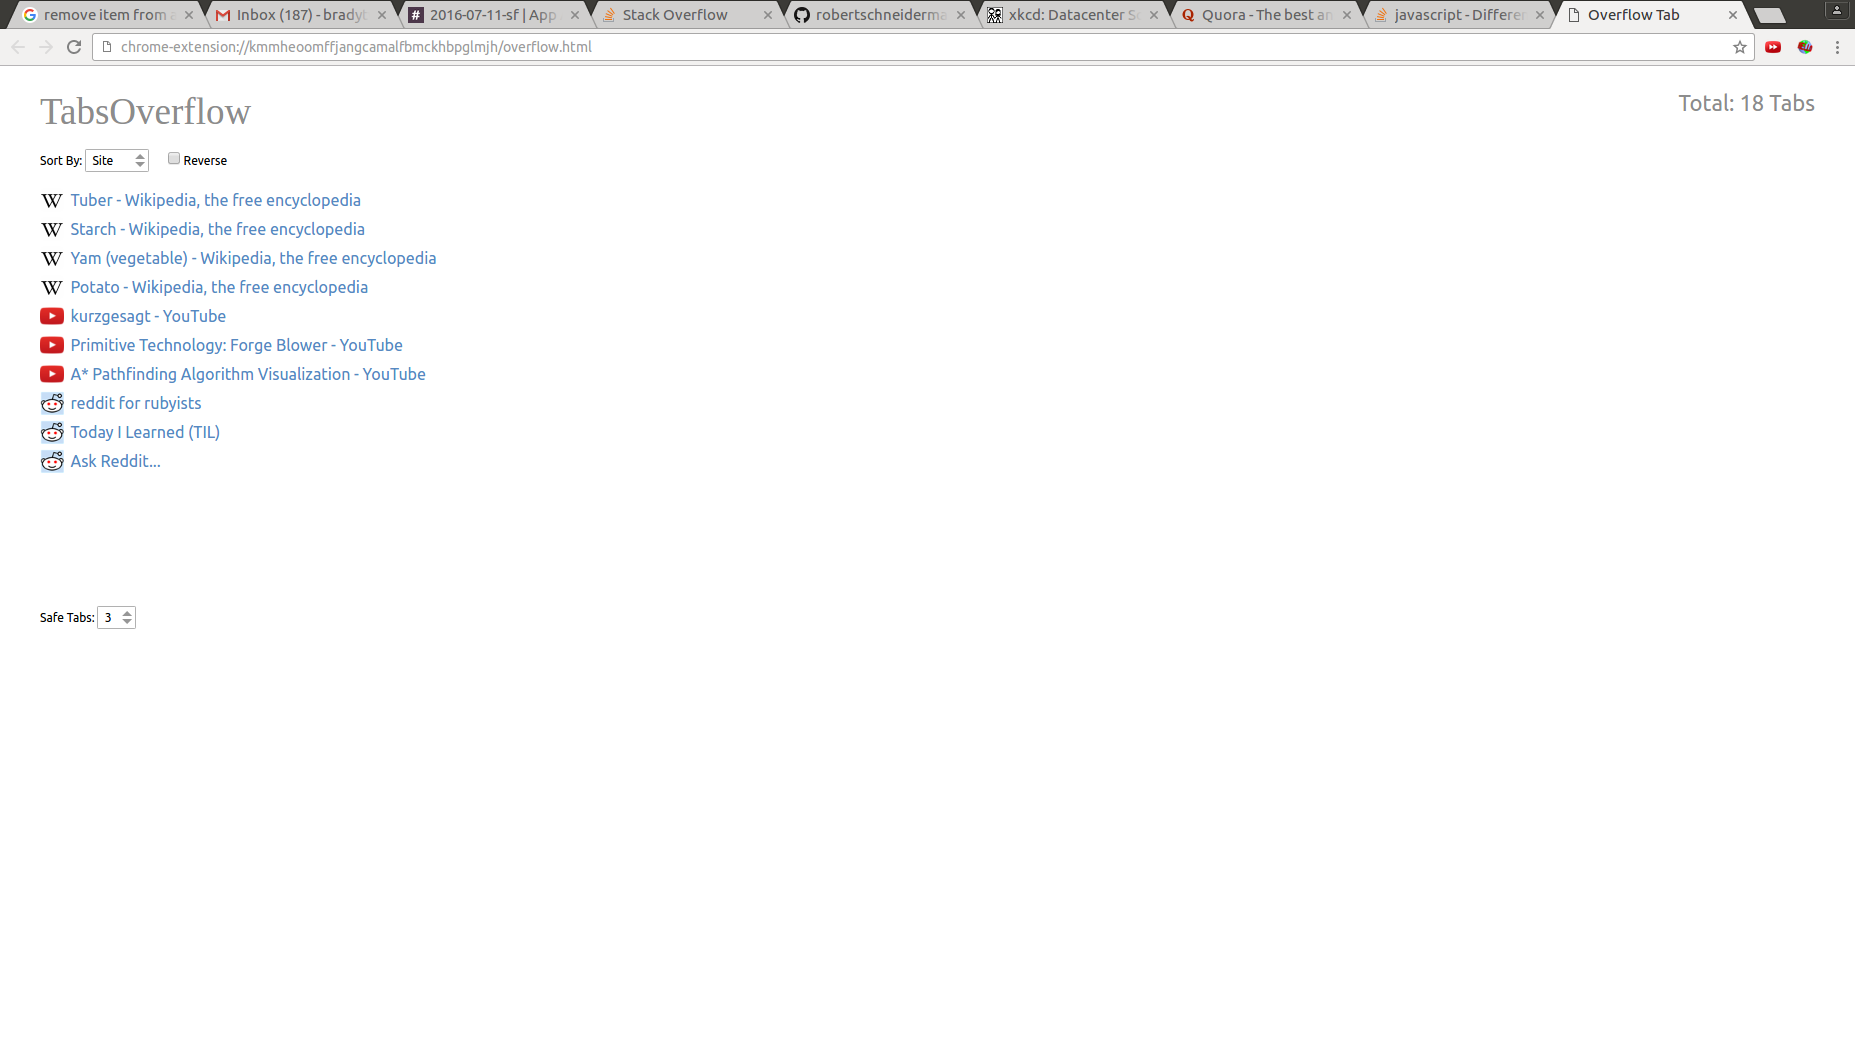
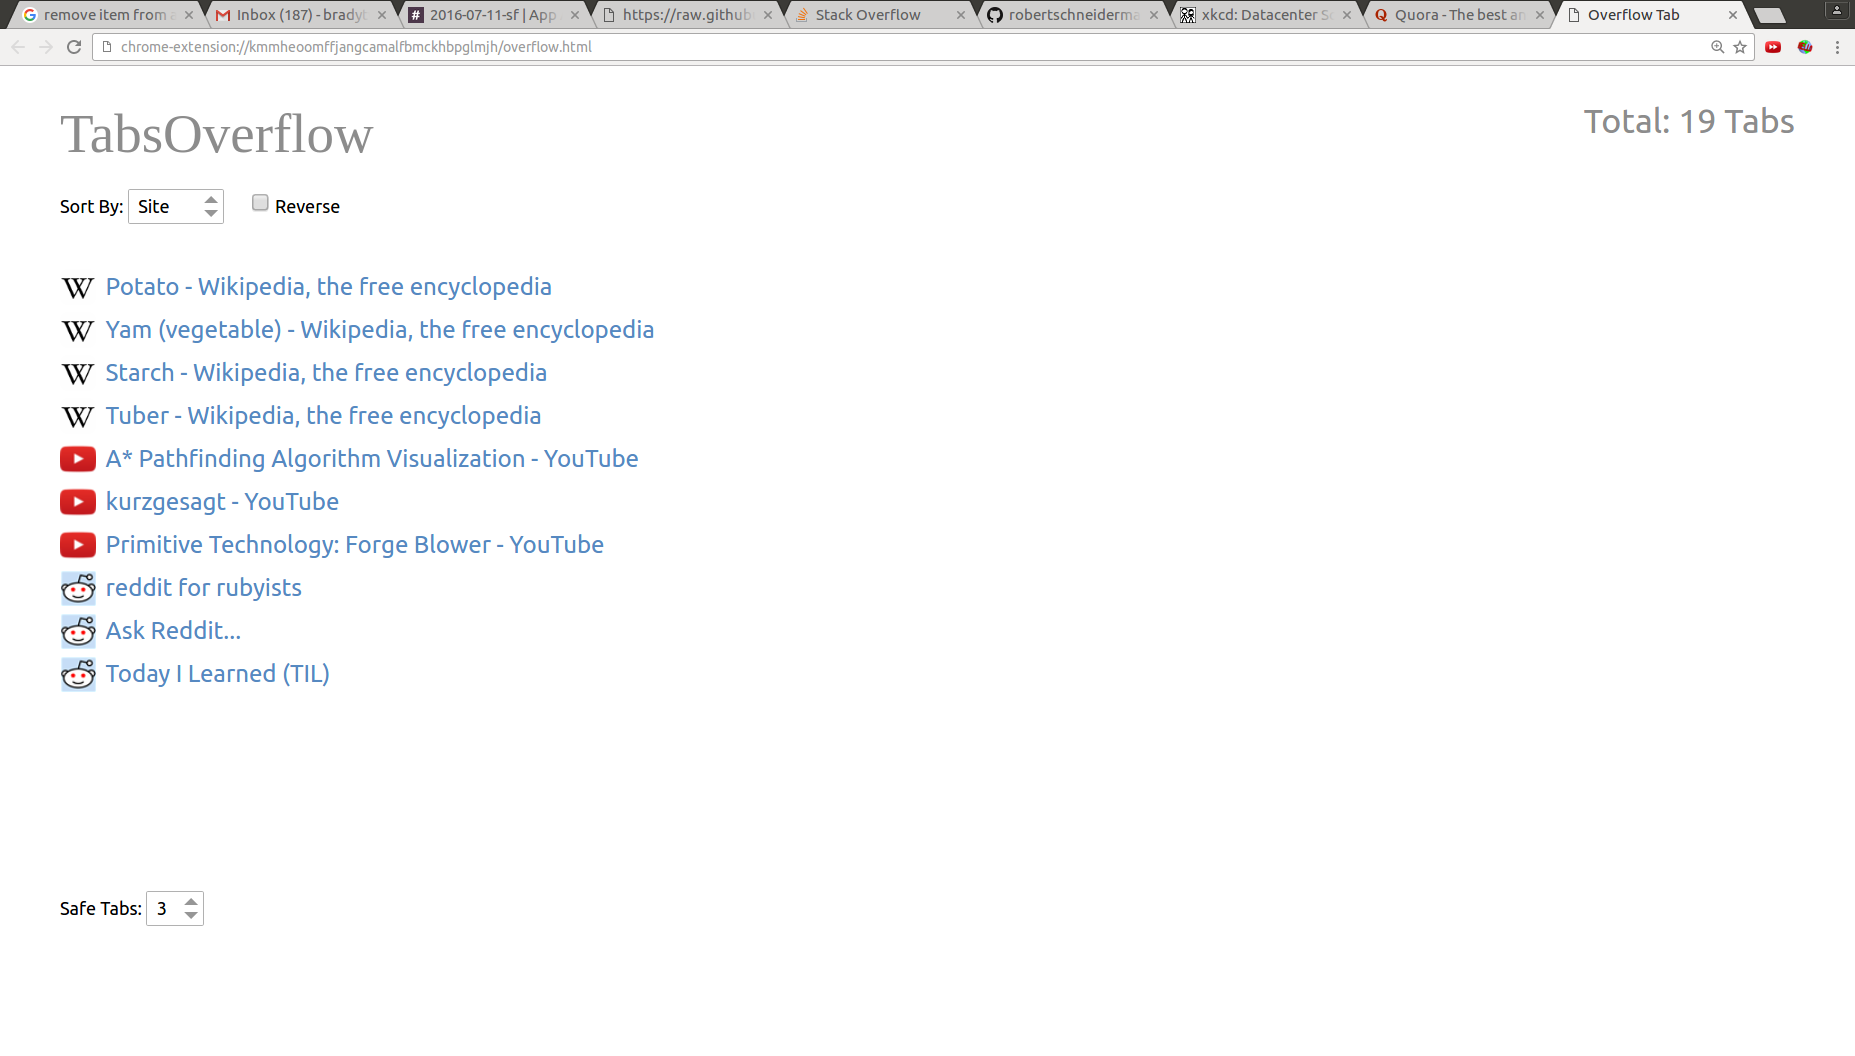
resized ss, fixed bug with alphabetizing lowercase/uppercase

diff --git a/overflow_tab.js b/overflow_tab.js
@@ -22,8 +22,8 @@ const stackCompare = (a,b) => {
 }
 
 const alphabetCompare = (a,b) => {
-  aTitle = a.lastChild.innerHTML;
-  bTitle = b.lastChild.innerHTML;
+  aTitle = a.lastChild.innerHTML.toLowerCase();
+  bTitle = b.lastChild.innerHTML.toLowerCase();
   if (aTitle < bTitle) {
     return -1
   } else {
